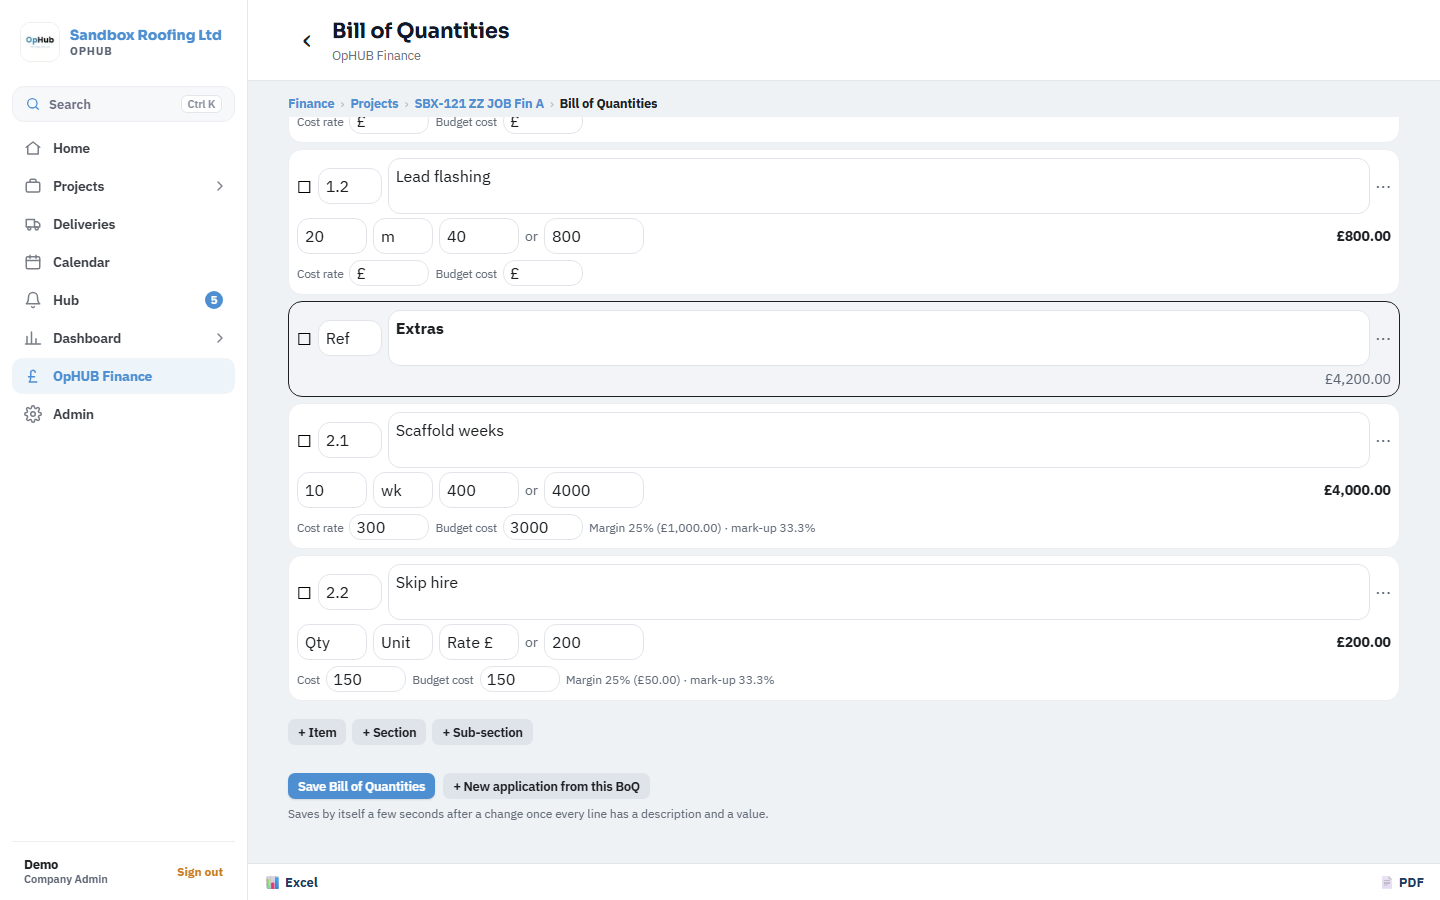
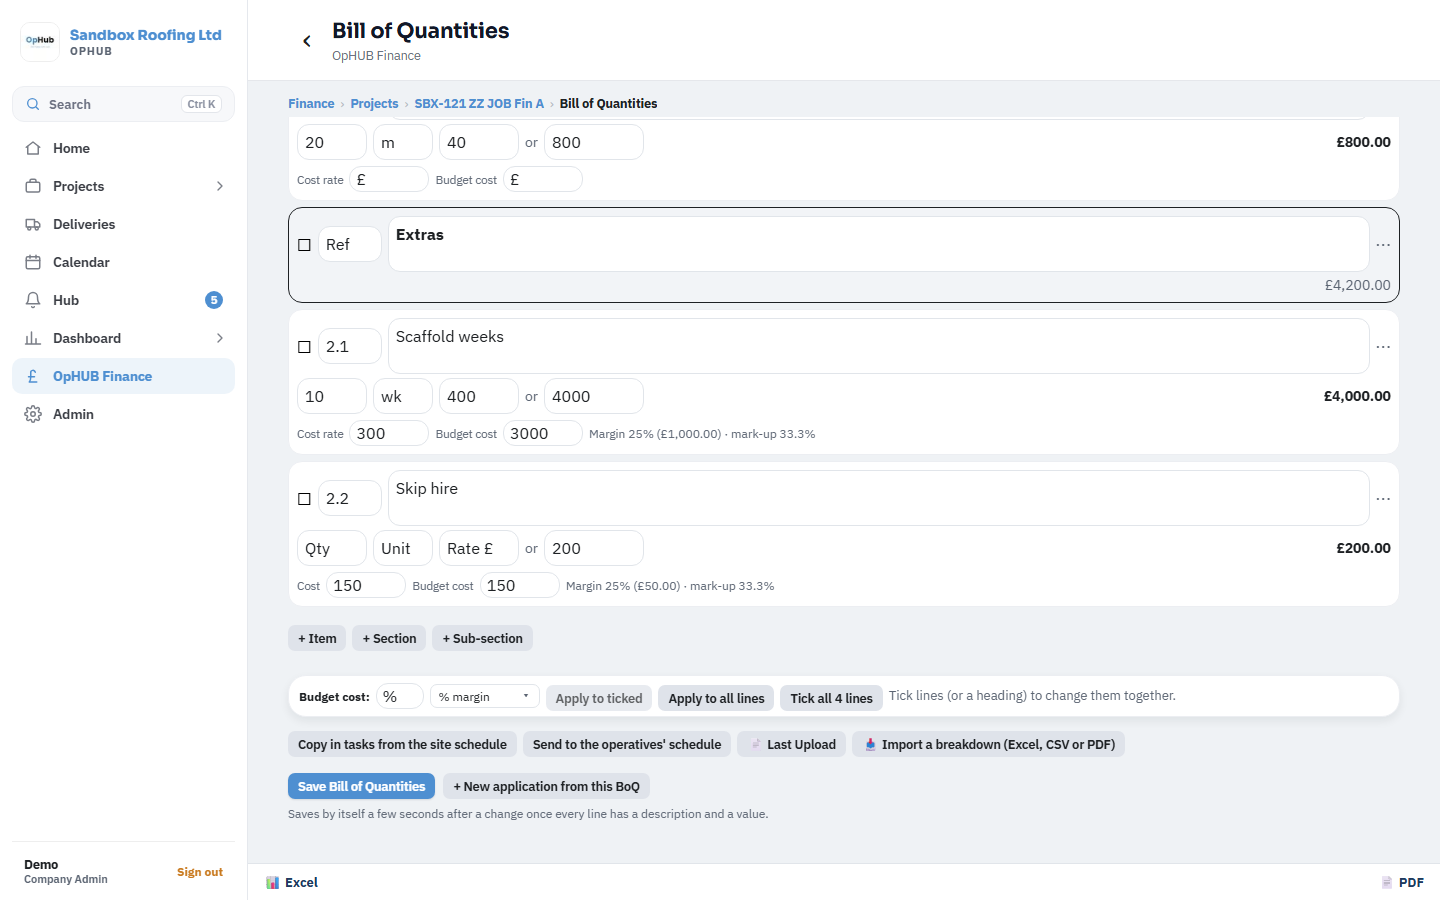
Bill of Quantities: budget cost row and the schedule and import buttons moved below the lines, each on one row.
Claude-Session: https://claude.ai/code/session_012KhfNvBEbifMJmPdX7yZfp

diff --git a/app-native/src/app/(app)/fin/job/[id]/boq.tsx b/app-native/src/app/(app)/fin/job/[id]/boq.tsx
@@ -163,96 +163,11 @@ function Editor({ id, initial, me }: { id: string; initial: Row[]; me: Profile }
     <ScrollView style={{ flex: 1 }} contentContainerStyle={page(1100)} keyboardShouldPersistTaps="handled">
       <Stack.Screen options={{ title: 'Bill of Quantities' }} />
       <Card><Text style={{ fontWeight: '800', color: base.ink }}>Total {money(total)}{costTotal ? ` · budget cost ${money(costTotal)} · ${marginText(total, costTotal) || `margin ${money(total - costTotal)}`}` : ''}</Text><Muted>The operatives&apos; Schedule of Works can be brought in to price, or sent out from here (without prices).{autoNote ? ` · ${autoNote}` : ''}</Muted>
-        <View style={{ flexDirection: 'row', flexWrap: 'wrap', gap: 8, marginTop: 6 }}>
-          <Button small kind="ghost" title="Copy in tasks from the site schedule" onPress={async () => {
-            const [secs, tasks] = await Promise.all([
-              fdb.from('schedule_sections').select('id,name,contract_item_id').eq('site_id', id).order('position', { ascending: true, nullsFirst: false }).order('created_at'),
-              fdb.from('schedule_tasks').select('id,name,section_id,contract_item_id').eq('site_id', id).order('position', { ascending: true, nullsFirst: false }).order('created_at'),
-            ]);
-            const have = new Set(rows.map((r) => r._task_id).filter(Boolean));
-            const free = ((tasks.data as Row[] | null) ?? []).filter((t) => !t.contract_item_id && !have.has(t.id));
-            if (!free.length) { toast('Everything on the site schedule is already in here.'); return; }
-            const addRows: Row[] = free.filter((t) => !t.section_id).map((t) => ({ ...blank('item'), description: t.name, _task_id: t.id }));
-            ((secs.data as Row[] | null) ?? []).forEach((s) => {
-              const ts = free.filter((t) => t.section_id === s.id); if (!ts.length) return;
-              addRows.push({ ...blank('section'), description: s.name, _sec_id: s.contract_item_id ? null : s.id }, ...ts.map((t) => ({ ...blank('item'), description: t.name, _task_id: t.id })));
-            });
-            setRows([...rows, ...addRows]);
-            toast(`${free.length} task${free.length === 1 ? '' : 's'} copied in — add a price to each`);
-          }} />
-          <Button small kind="ghost" title="Send to the operatives' schedule" onPress={async () => {
-            if (rows.some((r) => !r.id)) { toast('Save the schedule first.'); return; }
-            const [secs, tasks] = await Promise.all([fdb.from('schedule_sections').select('id,contract_item_id,name,position').eq('site_id', id), fdb.from('schedule_tasks').select('id,contract_item_id,name,section_id,position').eq('site_id', id)]);
-            const sl = (secs.data as Row[] | null) ?? [], tl = (tasks.data as Row[] | null) ?? [];
-            const secBy: Record<string, Row> = {}, taskBy: Record<string, Row> = {};
-            sl.forEach((s) => { if (s.contract_item_id) secBy[s.contract_item_id] = s; }); tl.forEach((t) => { if (t.contract_item_id) taskBy[t.contract_item_id] = t; });
-            let secPos = sl.reduce((m, s) => Math.max(m, Number(s.position || 0)), 0) + 1, taskPos = tl.reduce((m, t) => Math.max(m, Number(t.position || 0)), 0) + 1;
-            let cur: string | null = null, head = '', added = 0, updated = 0;
-            const nm = (i: Row) => `${i.ref ? `${i.ref} ` : ''}${String(i.description || '').trim()}`;
-            for (const i of rows) {
-              if (i.kind === 'section' || i.kind === 'subsection') {
-                const name = i.kind === 'section' ? nm(i) : `${head ? `${head} — ` : ''}${nm(i)}`; if (i.kind === 'section') head = nm(i);
-                const ex = secBy[i.id];
-                if (ex) { if (ex.name !== name) await fdb.from('schedule_sections').update({ name } as never).eq('id', ex.id); cur = ex.id; }
-                else { const r = await fdb.from('schedule_sections').insert({ site_id: id, name, position: secPos++, created_by: me.id, contract_item_id: i.id } as never).select('id').single(); cur = r.data ? (r.data as Row).id : null; }
-                continue;
-              }
-              const name = nm(i) || 'Item', ex = taskBy[i.id];
-              if (ex) { const p: Row = {}; if (ex.name !== name) p.name = name; if ((ex.section_id || null) !== (cur || null)) p.section_id = cur; if (Object.keys(p).length) { await fdb.from('schedule_tasks').update(p as never).eq('id', ex.id); updated++; } }
-              else if (!(await fdb.from('schedule_tasks').insert({ site_id: id, name, status: 'todo', position: taskPos++, contract_item_id: i.id, ...(cur ? { section_id: cur } : {}) } as never)).error) added++;
-            }
-            toast(added || updated ? `Operatives' schedule: ${added} task${added === 1 ? '' : 's'} added${updated ? `, ${updated} updated` : ''}` : 'The operatives’ schedule is already up to date');
-          }} />
-          {!!lastUp?.path && <Button small kind="ghost" title="📄 Last Upload" onPress={async () => { const u = await openDocLink('finance-docs', lastUp.path); if (u) viewDoc(u, lastUp.name); else toast('Could not open the file.'); }} />}
-          <Button small kind="ghost" busy={importing} title="📥 Import a breakdown (Excel, CSV or PDF)" onPress={async () => {
-            const r = await DocumentPicker.getDocumentAsync({ type: '*/*', copyToCacheDirectory: true }); if (r.canceled || !r.assets[0]) return;
-            const a = r.assets[0];
-            if (/\.xls$/i.test(a.name || '')) { toast('Save it as .xlsx or .csv first — old .xls files can’t be read.'); return; }
-            setImporting(true);
-            try {
-              const bytes = new Uint8Array(await (await fetch(a.uri)).arrayBuffer());
-              const kept = await supabase.storage.from('finance-docs').upload(`${me.org_id}/${id}/contract/${Date.now()}-${(a.name || 'boq').replace(/[^a-z0-9.-]+/gi, '_').slice(-80)}`, bytes, { contentType: a.mimeType || 'application/octet-stream' });
-              if (!kept.error) { await fdb.from('job_finance').update({ contract_file_path: kept.data.path, contract_file_name: a.name || 'BoQ' } as never).eq('site_id', id); setLastUp({ path: kept.data.path, name: a.name || 'BoQ' }); }
-              if (/\.pdf$/i.test(a.name || '') || a.mimeType === 'application/pdf') {
-                const pages = await pdfPageTexts(bytes, 40);
-                setImp({ sheets: [], sheet: '', lines: importPdfLines((pages ?? []).join('\n').split('\n')) });
-              } else {
-                const sheets = /\.csv$/i.test(a.name || '') ? [{ name: 'CSV', rows: csvRows(new TextDecoder().decode(bytes)) }] : await readXlsx(bytes);
-                const best = bestSheet(sheets); if (!best) { toast('Nothing found in that file.'); return; }
-                const g = guessColumns(best.rows);
-                setImp({ sheets, sheet: best.name, lines: importRows(best.rows, g.header, g.cols) });
-              }
-            } catch { toast('Could not read that file.'); } finally { setImporting(false); }
-          }} />
-        </View>
       </Card>
       {imp && <ImportPreview imp={imp} setImp={setImp} onUse={async (lines) => {
         if (rows.some((x) => String(x.description || '').trim()) && !(await confirmAsk('Replace the lines here with the imported breakdown?', 'Replace'))) return;
         setRows(boqRows(lines).map((r) => ({ ...r, _k: key(), sub: '' }))); setImp(null);
       }} />}
-
-      {/* Budget cost: margin / mark-up for all or the ticked lines, and changes to the ticked lines together (902). */}
-      <Card style={{ paddingVertical: 5, paddingHorizontal: 10 }}>
-        <View style={{ flexDirection: 'row', flexWrap: 'wrap', gap: 6, alignItems: 'center' }}>
-          <Text style={{ fontWeight: '700', fontSize: 12, color: base.ink }}>Budget cost:</Text>
-          <TextInput value={pct} onChangeText={(v) => setPct(v.replace(/[^0-9.]/g, ''))} placeholder="%" keyboardType="decimal-pad" style={[box, { width: 48, height: 26, paddingVertical: 2, paddingHorizontal: 6, fontSize: 12 }]} />
-          <SelectBox value={basis} options={[['margin', '% margin'], ['markup', '% mark-up']]} onChange={setBasis} compact style={{ marginBottom: 0, width: 110 }} title="Margin or mark-up" />
-          <Button small kind="ghost" title={ticked.length ? `Apply to ${ticked.length} ticked` : 'Apply to ticked'} disabled={!ticked.length} onPress={() => applyPct(true)} />
-          <Button small kind="ghost" title="Apply to all lines" onPress={() => applyPct(false)} />
-        </View>
-        <View style={{ flexDirection: 'row', flexWrap: 'wrap', gap: 8, alignItems: 'center', marginTop: 8 }}>
-          {ticked.length ? (
-            <>
-              <Text style={{ fontWeight: '700', color: base.ink }}>{ticked.length} ticked</Text>
-              {subs.length > 0 && <SelectBox value="" placeholder="Set plot…" title="Plot for the ticked lines" options={[['-', 'No plot'], ...subs.map((s) => [s.id, s.short] as [string, string])]} onChange={(k) => setRows((rs) => rs.map((r, j) => (ticked.includes(j) ? { ...r, sub: k === '-' ? '' : k } : r)))} style={{ marginBottom: 0, width: 170 }} />}
-              <Button small kind="ghost" title="Set unit" onPress={async () => { const u = await promptText('Unit for the ticked lines (e.g. m², nr, item)', ''); if (u !== null) setRows((rs) => rs.map((r, j) => (ticked.includes(j) ? { ...r, unit: u.trim() } : r))); }} />
-              <Button small kind="ghost" title="Clear costs" onPress={() => setRows((rs) => rs.map((r, j) => (ticked.includes(j) ? { ...r, cost: '', cost_basis: null, cost_pct: null } : r)))} />
-              <Button small kind="ghost" title="Remove" onPress={async () => { if (await confirmAsk(`Remove ${ticked.length} ticked line${ticked.length === 1 ? '' : 's'}?`, 'Remove')) setRows((rs) => rs.filter((_, j) => !ticked.includes(j))); }} />
-              <Button small kind="ghost" title="Untick all" onPress={() => tick(itemIdx, false)} />
-            </>
-          ) : itemIdx.length ? <><Button small kind="ghost" title={`Tick all ${itemIdx.length} lines`} onPress={() => tick(itemIdx, true)} /><Muted>Tick lines (or a heading) to change them together.</Muted></> : null}
-        </View>
-      </Card>
 
       {rows.map((r, i) => {
         const head = r.kind === 'section' || r.kind === 'subsection';
@@ -296,6 +211,89 @@ function Editor({ id, initial, me }: { id: string; initial: Row[]; me: Profile }
       })}
       <View style={{ flexDirection: 'row', gap: 6, flexWrap: 'wrap', marginTop: 8, marginBottom: 24 }}>
         <Button small kind="ghost" title="+ Item" onPress={() => add('item')} /><Button small kind="ghost" title="+ Section" onPress={() => add('section')} /><Button small kind="ghost" title="+ Sub-section" onPress={() => add('subsection')} />
+      </View>
+      {/* Budget cost: margin / mark-up for all or the ticked lines, and changes to the ticked lines together (902). */}
+      <Card style={{ paddingVertical: 5, paddingHorizontal: 10 }}>
+        <View style={{ flexDirection: 'row', flexWrap: 'wrap', gap: 6, alignItems: 'center' }}>
+          <Text style={{ fontWeight: '700', fontSize: 12, color: base.ink }}>Budget cost:</Text>
+          <TextInput value={pct} onChangeText={(v) => setPct(v.replace(/[^0-9.]/g, ''))} placeholder="%" keyboardType="decimal-pad" style={[box, { width: 48, height: 26, paddingVertical: 2, paddingHorizontal: 6, fontSize: 12 }]} />
+          <SelectBox value={basis} options={[['margin', '% margin'], ['markup', '% mark-up']]} onChange={setBasis} compact style={{ marginBottom: 0, width: 110 }} title="Margin or mark-up" />
+          <Button small kind="ghost" title={ticked.length ? `Apply to ${ticked.length} ticked` : 'Apply to ticked'} disabled={!ticked.length} onPress={() => applyPct(true)} />
+          <Button small kind="ghost" title="Apply to all lines" onPress={() => applyPct(false)} />
+          {ticked.length ? (
+            <>
+              <Text style={{ fontWeight: '700', color: base.ink }}>{ticked.length} ticked</Text>
+              {subs.length > 0 && <SelectBox value="" placeholder="Set plot…" title="Plot for the ticked lines" options={[['-', 'No plot'], ...subs.map((s) => [s.id, s.short] as [string, string])]} onChange={(k) => setRows((rs) => rs.map((r, j) => (ticked.includes(j) ? { ...r, sub: k === '-' ? '' : k } : r)))} style={{ marginBottom: 0, width: 170 }} />}
+              <Button small kind="ghost" title="Set unit" onPress={async () => { const u = await promptText('Unit for the ticked lines (e.g. m², nr, item)', ''); if (u !== null) setRows((rs) => rs.map((r, j) => (ticked.includes(j) ? { ...r, unit: u.trim() } : r))); }} />
+              <Button small kind="ghost" title="Clear costs" onPress={() => setRows((rs) => rs.map((r, j) => (ticked.includes(j) ? { ...r, cost: '', cost_basis: null, cost_pct: null } : r)))} />
+              <Button small kind="ghost" title="Remove" onPress={async () => { if (await confirmAsk(`Remove ${ticked.length} ticked line${ticked.length === 1 ? '' : 's'}?`, 'Remove')) setRows((rs) => rs.filter((_, j) => !ticked.includes(j))); }} />
+              <Button small kind="ghost" title="Untick all" onPress={() => tick(itemIdx, false)} />
+            </>
+          ) : itemIdx.length ? <><Button small kind="ghost" title={`Tick all ${itemIdx.length} lines`} onPress={() => tick(itemIdx, true)} /><Muted>Tick lines (or a heading) to change them together.</Muted></> : null}
+        </View>
+      </Card>
+
+      <View style={{ flexDirection: 'row', flexWrap: 'wrap', gap: 6, marginBottom: 12 }}>
+        <Button small kind="ghost" title="Copy in tasks from the site schedule" onPress={async () => {
+          const [secs, tasks] = await Promise.all([
+            fdb.from('schedule_sections').select('id,name,contract_item_id').eq('site_id', id).order('position', { ascending: true, nullsFirst: false }).order('created_at'),
+            fdb.from('schedule_tasks').select('id,name,section_id,contract_item_id').eq('site_id', id).order('position', { ascending: true, nullsFirst: false }).order('created_at'),
+          ]);
+          const have = new Set(rows.map((r) => r._task_id).filter(Boolean));
+          const free = ((tasks.data as Row[] | null) ?? []).filter((t) => !t.contract_item_id && !have.has(t.id));
+          if (!free.length) { toast('Everything on the site schedule is already in here.'); return; }
+          const addRows: Row[] = free.filter((t) => !t.section_id).map((t) => ({ ...blank('item'), description: t.name, _task_id: t.id }));
+          ((secs.data as Row[] | null) ?? []).forEach((s) => {
+            const ts = free.filter((t) => t.section_id === s.id); if (!ts.length) return;
+            addRows.push({ ...blank('section'), description: s.name, _sec_id: s.contract_item_id ? null : s.id }, ...ts.map((t) => ({ ...blank('item'), description: t.name, _task_id: t.id })));
+          });
+          setRows([...rows, ...addRows]);
+          toast(`${free.length} task${free.length === 1 ? '' : 's'} copied in — add a price to each`);
+        }} />
+        <Button small kind="ghost" title="Send to the operatives' schedule" onPress={async () => {
+          if (rows.some((r) => !r.id)) { toast('Save the schedule first.'); return; }
+          const [secs, tasks] = await Promise.all([fdb.from('schedule_sections').select('id,contract_item_id,name,position').eq('site_id', id), fdb.from('schedule_tasks').select('id,contract_item_id,name,section_id,position').eq('site_id', id)]);
+          const sl = (secs.data as Row[] | null) ?? [], tl = (tasks.data as Row[] | null) ?? [];
+          const secBy: Record<string, Row> = {}, taskBy: Record<string, Row> = {};
+          sl.forEach((s) => { if (s.contract_item_id) secBy[s.contract_item_id] = s; }); tl.forEach((t) => { if (t.contract_item_id) taskBy[t.contract_item_id] = t; });
+          let secPos = sl.reduce((m, s) => Math.max(m, Number(s.position || 0)), 0) + 1, taskPos = tl.reduce((m, t) => Math.max(m, Number(t.position || 0)), 0) + 1;
+          let cur: string | null = null, head = '', added = 0, updated = 0;
+          const nm = (i: Row) => `${i.ref ? `${i.ref} ` : ''}${String(i.description || '').trim()}`;
+          for (const i of rows) {
+            if (i.kind === 'section' || i.kind === 'subsection') {
+              const name = i.kind === 'section' ? nm(i) : `${head ? `${head} — ` : ''}${nm(i)}`; if (i.kind === 'section') head = nm(i);
+              const ex = secBy[i.id];
+              if (ex) { if (ex.name !== name) await fdb.from('schedule_sections').update({ name } as never).eq('id', ex.id); cur = ex.id; }
+              else { const r = await fdb.from('schedule_sections').insert({ site_id: id, name, position: secPos++, created_by: me.id, contract_item_id: i.id } as never).select('id').single(); cur = r.data ? (r.data as Row).id : null; }
+              continue;
+            }
+            const name = nm(i) || 'Item', ex = taskBy[i.id];
+            if (ex) { const p: Row = {}; if (ex.name !== name) p.name = name; if ((ex.section_id || null) !== (cur || null)) p.section_id = cur; if (Object.keys(p).length) { await fdb.from('schedule_tasks').update(p as never).eq('id', ex.id); updated++; } }
+            else if (!(await fdb.from('schedule_tasks').insert({ site_id: id, name, status: 'todo', position: taskPos++, contract_item_id: i.id, ...(cur ? { section_id: cur } : {}) } as never)).error) added++;
+          }
+          toast(added || updated ? `Operatives' schedule: ${added} task${added === 1 ? '' : 's'} added${updated ? `, ${updated} updated` : ''}` : 'The operatives’ schedule is already up to date');
+        }} />
+        {!!lastUp?.path && <Button small kind="ghost" title="📄 Last Upload" onPress={async () => { const u = await openDocLink('finance-docs', lastUp.path); if (u) viewDoc(u, lastUp.name); else toast('Could not open the file.'); }} />}
+        <Button small kind="ghost" busy={importing} title="📥 Import a breakdown (Excel, CSV or PDF)" onPress={async () => {
+          const r = await DocumentPicker.getDocumentAsync({ type: '*/*', copyToCacheDirectory: true }); if (r.canceled || !r.assets[0]) return;
+          const a = r.assets[0];
+          if (/\.xls$/i.test(a.name || '')) { toast('Save it as .xlsx or .csv first — old .xls files can’t be read.'); return; }
+          setImporting(true);
+          try {
+            const bytes = new Uint8Array(await (await fetch(a.uri)).arrayBuffer());
+            const kept = await supabase.storage.from('finance-docs').upload(`${me.org_id}/${id}/contract/${Date.now()}-${(a.name || 'boq').replace(/[^a-z0-9.-]+/gi, '_').slice(-80)}`, bytes, { contentType: a.mimeType || 'application/octet-stream' });
+            if (!kept.error) { await fdb.from('job_finance').update({ contract_file_path: kept.data.path, contract_file_name: a.name || 'BoQ' } as never).eq('site_id', id); setLastUp({ path: kept.data.path, name: a.name || 'BoQ' }); }
+            if (/\.pdf$/i.test(a.name || '') || a.mimeType === 'application/pdf') {
+              const pages = await pdfPageTexts(bytes, 40);
+              setImp({ sheets: [], sheet: '', lines: importPdfLines((pages ?? []).join('\n').split('\n')) });
+            } else {
+              const sheets = /\.csv$/i.test(a.name || '') ? [{ name: 'CSV', rows: csvRows(new TextDecoder().decode(bytes)) }] : await readXlsx(bytes);
+              const best = bestSheet(sheets); if (!best) { toast('Nothing found in that file.'); return; }
+              const g = guessColumns(best.rows);
+              setImp({ sheets, sheet: best.name, lines: importRows(best.rows, g.header, g.cols) });
+            }
+          } catch { toast('Could not read that file.'); } finally { setImporting(false); }
+        }} />
       </View>
       <View style={{ flexDirection: 'row', gap: 8, flexWrap: 'wrap', alignItems: 'center' }}>
         <Button small busy={busy} title="Save Bill of Quantities" onPress={() => void save()} />
